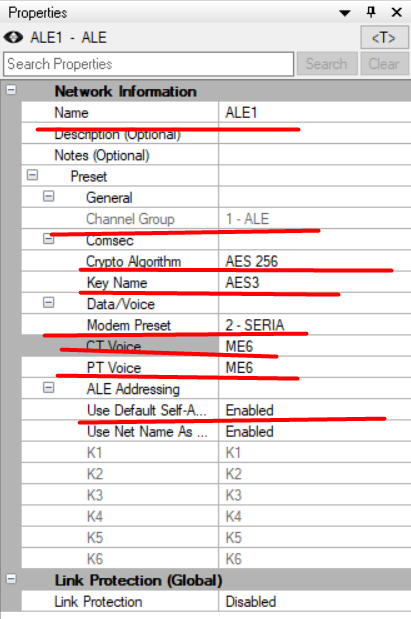
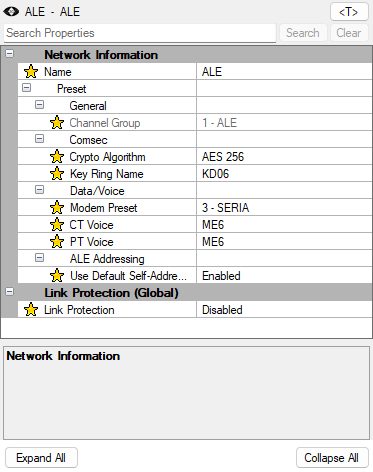
Оновити властивості мережі ALE

diff --git a/02-tehnika-bezpeky/quiz.html b/02-tehnika-bezpeky/quiz.html
@@ -1,8 +1,8 @@
 <!doctype html>
-  <script src="../asset-version.js?v=34ab94fab935"></script>
+  <script src="../asset-version.js?v=a3d1751b5d5b"></script>
 
 <script>location.replace("../quiz.html?topic=2");</script>
-<html lang="uk"><head><meta charset="utf-8"><meta name="viewport" content="width=device-width, initial-scale=1"><title>Вікторина</title><link rel="icon" href="data:,"><link rel="stylesheet" href="../style.css?v=34ab94fab935"><link rel="stylesheet" href="../quiz-common.css?v=34ab94fab935"></head>
+<html lang="uk"><head><meta charset="utf-8"><meta name="viewport" content="width=device-width, initial-scale=1"><title>Вікторина</title><link rel="icon" href="data:,"><link rel="stylesheet" href="../style.css?v=a3d1751b5d5b"><link rel="stylesheet" href="../quiz-common.css?v=a3d1751b5d5b"></head>
 <body><main class="page quiz-page">
   <div class="topbar"><a href="index.html">До конспекту</a><span>Тема 2 / Тренування</span></div>
   <header class="quiz-header"><div><p id="topicLabel" class="source"></p><h1 id="quizTitle">Екзаменаційна вікторина</h1></div><div class="scoreboard" aria-label="Стан вікторини"><div><span id="progressText">-</span><small>питання</small></div><div><span id="scoreText">0</span><small>правильно</small></div><div><span id="bestText">-</span><small>найкраще</small></div></div></header>
@@ -10,4 +10,4 @@
   <section id="resumePanel" class="resume-panel" hidden><p class="question-topic">Незавершена спроба</p><h2>Продовжити збережену вікторину?</h2><p id="resumeSummary"></p><div class="quiz-actions"><button id="resumeButton" class="primary-button" type="button">Продовжити</button><button id="newQuizButton" class="secondary-button" type="button">Почати нову</button></div></section>
   <section id="quizPanel" class="quiz-panel" hidden aria-live="polite"><p id="questionTopic" class="question-topic"></p><h2 id="questionText"></h2><div id="answers" class="answers" role="radiogroup"></div><div id="feedback" class="feedback" hidden><p id="feedbackTitle" class="feedback-title"></p><p id="feedbackText"></p><a id="referenceLink" class="reference-link" href="index.html" target="_blank" rel="noopener">Відкрити фрагмент конспекту</a></div><div class="quiz-actions"><button id="checkButton" class="primary-button" type="button" disabled>Перевірити</button><button id="nextButton" class="primary-button" type="button" hidden>Наступне питання</button></div></section>
   <section id="resultPanel" class="result-panel" hidden><p class="result-label">Результат</p><h2 id="resultTitle"></h2><p id="resultMessage"></p><div class="result-stats"><div><strong id="resultCorrectTotal">0/0</strong><span>правильно / усього</span></div><div><strong id="resultGrade">0/5</strong><span>оцінка</span></div><div><strong id="resultPercent">0%</strong><span>правильних</span></div><div><strong id="resultTime">0:00</strong><span>активний час</span></div></div><div id="mistakes" class="mistakes"></div><div class="result-actions"><button id="restartButton" class="primary-button" type="button">Пройти ще раз</button><a class="secondary-button" href="index.html">До конспекту</a></div></section>
-</main><script src="quiz-data.js?v=34ab94fab935"></script><script src="../quiz-engine.js?v=34ab94fab935"></script><script src="../site-ui.js?v=34ab94fab935"></script></body></html>
+</main><script src="quiz-data.js?v=a3d1751b5d5b"></script><script src="../quiz-engine.js?v=a3d1751b5d5b"></script><script src="../site-ui.js?v=a3d1751b5d5b"></script></body></html>

diff --git a/03-radiohvyli-radiozviazok-zavady/quiz.html b/03-radiohvyli-radiozviazok-zavady/quiz.html
@@ -1,8 +1,8 @@
 <!doctype html>
-  <script src="../asset-version.js?v=34ab94fab935"></script>
+  <script src="../asset-version.js?v=a3d1751b5d5b"></script>
 
 <script>location.replace("../quiz.html?topic=3");</script>
-<html lang="uk"><head><meta charset="utf-8"><meta name="viewport" content="width=device-width, initial-scale=1"><title>Вікторина</title><link rel="icon" href="data:,"><link rel="stylesheet" href="../style.css?v=34ab94fab935"><link rel="stylesheet" href="../quiz-common.css?v=34ab94fab935"></head>
+<html lang="uk"><head><meta charset="utf-8"><meta name="viewport" content="width=device-width, initial-scale=1"><title>Вікторина</title><link rel="icon" href="data:,"><link rel="stylesheet" href="../style.css?v=a3d1751b5d5b"><link rel="stylesheet" href="../quiz-common.css?v=a3d1751b5d5b"></head>
 <body><main class="page quiz-page">
   <div class="topbar"><a href="index.html">До конспекту</a><span>Тема 3 / Тренування</span></div>
   <header class="quiz-header"><div><p id="topicLabel" class="source"></p><h1 id="quizTitle">Екзаменаційна вікторина</h1></div><div class="scoreboard" aria-label="Стан вікторини"><div><span id="progressText">-</span><small>питання</small></div><div><span id="scoreText">0</span><small>правильно</small></div><div><span id="bestText">-</span><small>найкраще</small></div></div></header>
@@ -10,4 +10,4 @@
   <section id="resumePanel" class="resume-panel" hidden><p class="question-topic">Незавершена спроба</p><h2>Продовжити збережену вікторину?</h2><p id="resumeSummary"></p><div class="quiz-actions"><button id="resumeButton" class="primary-button" type="button">Продовжити</button><button id="newQuizButton" class="secondary-button" type="button">Почати нову</button></div></section>
   <section id="quizPanel" class="quiz-panel" hidden aria-live="polite"><p id="questionTopic" class="question-topic"></p><h2 id="questionText"></h2><div id="answers" class="answers" role="radiogroup"></div><div id="feedback" class="feedback" hidden><p id="feedbackTitle" class="feedback-title"></p><p id="feedbackText"></p><a id="referenceLink" class="reference-link" href="index.html" target="_blank" rel="noopener">Відкрити фрагмент конспекту</a></div><div class="quiz-actions"><button id="checkButton" class="primary-button" type="button" disabled>Перевірити</button><button id="nextButton" class="primary-button" type="button" hidden>Наступне питання</button></div></section>
   <section id="resultPanel" class="result-panel" hidden><p class="result-label">Результат</p><h2 id="resultTitle"></h2><p id="resultMessage"></p><div class="result-stats"><div><strong id="resultCorrectTotal">0/0</strong><span>правильно / усього</span></div><div><strong id="resultGrade">0/5</strong><span>оцінка</span></div><div><strong id="resultPercent">0%</strong><span>правильних</span></div><div><strong id="resultTime">0:00</strong><span>активний час</span></div></div><div id="mistakes" class="mistakes"></div><div class="result-actions"><button id="restartButton" class="primary-button" type="button">Пройти ще раз</button><a class="secondary-button" href="index.html">До конспекту</a></div></section>
-</main><script src="quiz-data.js?v=34ab94fab935"></script><script src="../quiz-engine.js?v=34ab94fab935"></script><script src="../site-ui.js?v=34ab94fab935"></script></body></html>
+</main><script src="quiz-data.js?v=a3d1751b5d5b"></script><script src="../quiz-engine.js?v=a3d1751b5d5b"></script><script src="../site-ui.js?v=a3d1751b5d5b"></script></body></html>

diff --git a/04-pobudova-radiostantsii-antenny/quiz.html b/04-pobudova-radiostantsii-antenny/quiz.html
@@ -1,8 +1,8 @@
 <!doctype html>
-  <script src="../asset-version.js?v=34ab94fab935"></script>
+  <script src="../asset-version.js?v=a3d1751b5d5b"></script>
 
 <script>location.replace("../quiz.html?topic=4");</script>
-<html lang="uk"><head><meta charset="utf-8"><meta name="viewport" content="width=device-width, initial-scale=1"><title>Вікторина</title><link rel="icon" href="data:,"><link rel="stylesheet" href="../style.css?v=34ab94fab935"><link rel="stylesheet" href="../quiz-common.css?v=34ab94fab935"></head>
+<html lang="uk"><head><meta charset="utf-8"><meta name="viewport" content="width=device-width, initial-scale=1"><title>Вікторина</title><link rel="icon" href="data:,"><link rel="stylesheet" href="../style.css?v=a3d1751b5d5b"><link rel="stylesheet" href="../quiz-common.css?v=a3d1751b5d5b"></head>
 <body><main class="page quiz-page">
   <div class="topbar"><a href="index.html">До конспекту</a><span>Тема 4 / Тренування</span></div>
   <header class="quiz-header"><div><p id="topicLabel" class="source"></p><h1 id="quizTitle">Екзаменаційна вікторина</h1></div><div class="scoreboard" aria-label="Стан вікторини"><div><span id="progressText">-</span><small>питання</small></div><div><span id="scoreText">0</span><small>правильно</small></div><div><span id="bestText">-</span><small>найкраще</small></div></div></header>
@@ -10,4 +10,4 @@
   <section id="resumePanel" class="resume-panel" hidden><p class="question-topic">Незавершена спроба</p><h2>Продовжити збережену вікторину?</h2><p id="resumeSummary"></p><div class="quiz-actions"><button id="resumeButton" class="primary-button" type="button">Продовжити</button><button id="newQuizButton" class="secondary-button" type="button">Почати нову</button></div></section>
   <section id="quizPanel" class="quiz-panel" hidden aria-live="polite"><p id="questionTopic" class="question-topic"></p><h2 id="questionText"></h2><div id="answers" class="answers" role="radiogroup"></div><div id="feedback" class="feedback" hidden><p id="feedbackTitle" class="feedback-title"></p><p id="feedbackText"></p><a id="referenceLink" class="reference-link" href="index.html" target="_blank" rel="noopener">Відкрити фрагмент конспекту</a></div><div class="quiz-actions"><button id="checkButton" class="primary-button" type="button" disabled>Перевірити</button><button id="nextButton" class="primary-button" type="button" hidden>Наступне питання</button></div></section>
   <section id="resultPanel" class="result-panel" hidden><p class="result-label">Результат</p><h2 id="resultTitle"></h2><p id="resultMessage"></p><div class="result-stats"><div><strong id="resultCorrectTotal">0/0</strong><span>правильно / усього</span></div><div><strong id="resultGrade">0/5</strong><span>оцінка</span></div><div><strong id="resultPercent">0%</strong><span>правильних</span></div><div><strong id="resultTime">0:00</strong><span>активний час</span></div></div><div id="mistakes" class="mistakes"></div><div class="result-actions"><button id="restartButton" class="primary-button" type="button">Пройти ще раз</button><a class="secondary-button" href="index.html">До конспекту</a></div></section>
-</main><script src="quiz-data.js?v=34ab94fab935"></script><script src="../quiz-engine.js?v=34ab94fab935"></script><script src="../site-ui.js?v=34ab94fab935"></script></body></html>
+</main><script src="quiz-data.js?v=a3d1751b5d5b"></script><script src="../quiz-engine.js?v=a3d1751b5d5b"></script><script src="../site-ui.js?v=a3d1751b5d5b"></script></body></html>

diff --git a/05-harris-ukh/quiz.html b/05-harris-ukh/quiz.html
@@ -1,8 +1,8 @@
 <!doctype html>
-  <script src="../asset-version.js?v=34ab94fab935"></script>
+  <script src="../asset-version.js?v=a3d1751b5d5b"></script>
 
 <script>location.replace("../quiz.html?topic=5");</script>
-<html lang="uk"><head><meta charset="utf-8"><meta name="viewport" content="width=device-width, initial-scale=1"><title>Вікторина</title><link rel="icon" href="data:,"><link rel="stylesheet" href="../style.css?v=34ab94fab935"><link rel="stylesheet" href="../quiz-common.css?v=34ab94fab935"></head>
+<html lang="uk"><head><meta charset="utf-8"><meta name="viewport" content="width=device-width, initial-scale=1"><title>Вікторина</title><link rel="icon" href="data:,"><link rel="stylesheet" href="../style.css?v=a3d1751b5d5b"><link rel="stylesheet" href="../quiz-common.css?v=a3d1751b5d5b"></head>
 <body><main class="page quiz-page">
   <div class="topbar"><a href="index.html">До конспекту</a><span>Тема 5 / Тренування</span></div>
   <header class="quiz-header"><div><p id="topicLabel" class="source"></p><h1 id="quizTitle">Екзаменаційна вікторина</h1></div><div class="scoreboard" aria-label="Стан вікторини"><div><span id="progressText">-</span><small>питання</small></div><div><span id="scoreText">0</span><small>правильно</small></div><div><span id="bestText">-</span><small>найкраще</small></div></div></header>
@@ -10,4 +10,4 @@
   <section id="resumePanel" class="resume-panel" hidden><p class="question-topic">Незавершена спроба</p><h2>Продовжити збережену вікторину?</h2><p id="resumeSummary"></p><div class="quiz-actions"><button id="resumeButton" class="primary-button" type="button">Продовжити</button><button id="newQuizButton" class="secondary-button" type="button">Почати нову</button></div></section>
   <section id="quizPanel" class="quiz-panel" hidden aria-live="polite"><p id="questionTopic" class="question-topic"></p><h2 id="questionText"></h2><div id="answers" class="answers" role="radiogroup"></div><div id="feedback" class="feedback" hidden><p id="feedbackTitle" class="feedback-title"></p><p id="feedbackText"></p><a id="referenceLink" class="reference-link" href="index.html" target="_blank" rel="noopener">Відкрити фрагмент конспекту</a></div><div class="quiz-actions"><button id="checkButton" class="primary-button" type="button" disabled>Перевірити</button><button id="nextButton" class="primary-button" type="button" hidden>Наступне питання</button></div></section>
   <section id="resultPanel" class="result-panel" hidden><p class="result-label">Результат</p><h2 id="resultTitle"></h2><p id="resultMessage"></p><div class="result-stats"><div><strong id="resultCorrectTotal">0/0</strong><span>правильно / усього</span></div><div><strong id="resultGrade">0/5</strong><span>оцінка</span></div><div><strong id="resultPercent">0%</strong><span>правильних</span></div><div><strong id="resultTime">0:00</strong><span>активний час</span></div></div><div id="mistakes" class="mistakes"></div><div class="result-actions"><button id="restartButton" class="primary-button" type="button">Пройти ще раз</button><a class="secondary-button" href="index.html">До конспекту</a></div></section>
-</main><script src="quiz-data.js?v=34ab94fab935"></script><script src="../quiz-engine.js?v=34ab94fab935"></script><script src="../site-ui.js?v=34ab94fab935"></script></body></html>
+</main><script src="quiz-data.js?v=a3d1751b5d5b"></script><script src="../quiz-engine.js?v=a3d1751b5d5b"></script><script src="../site-ui.js?v=a3d1751b5d5b"></script></body></html>

diff --git a/08-harris-kh-programuvannia/index.html b/08-harris-kh-programuvannia/index.html
@@ -5,7 +5,7 @@
   <meta name="viewport" content="width=device-width, initial-scale=1">
   <title>8. Програмування HARRIS КХ RF-7800H-MP</title>
   <link rel="icon" href="data:,">
-  <link rel="stylesheet" href="../style.css?v=34ab94fab935">
+  <link rel="stylesheet" href="../style.css?v=a3d1751b5d5b">
 </head>
 <body>
   <main class="page">
@@ -250,14 +250,15 @@
       <ul>
         <li><code>Name</code> — назва мережі;</li>
         <li><code>Channel Group</code> — канальна група ALE;</li>
-        <li><code>Crypto Algorithm</code> і <code>Key Name</code> — алгоритм та ключ шифрування;</li>
+        <li><code>Crypto Algorithm</code> і <code>Key Ring Name</code> — алгоритм та кільце ключів шифрування;</li>
         <li><code>Modem Preset</code> — профіль модема;</li>
         <li><code>CT Voice</code> і <code>PT Voice</code> — потрібні вокодери;</li>
-        <li><code>Use Default self-address</code> — <code>Enabled</code>.</li>
+        <li><code>Use Default Self-Address</code> — <code>Enabled</code>;</li>
+        <li><code>Link Protection</code> — <code>Disabled</code>.</li>
       </ul>
-      <figure class="procedure-shot">
+      <figure class="procedure-shot procedure-shot-narrow">
         <button class="procedure-shot-button" type="button" aria-label="Збільшити властивості ALE"><img src="ale-network-properties.png" alt="Основні властивості мережі ALE" loading="lazy"></button>
-        <figcaption>Канальна група, шифрування, модем, вокодери й адресація ALE.</figcaption>
+        <figcaption>Канальна група, шифрування, модем, вокодери, адресація ALE та захист каналу.</figcaption>
       </figure>
     </section>
 
@@ -352,12 +353,12 @@
       <p><a href="../07-harris-kh-ekspluatatsiia/index.html#ip-adresa">Перегляд налаштування DIRECT USB та IP-адреси радіостанції</a></p>
     </section>
   </main>
-  <script src="../asset-version.js?v=34ab94fab935"></script>
-  <script src="../search-index.js?v=34ab94fab935"></script>
-  <script src="../topic-search.js?v=34ab94fab935"></script>
+  <script src="../asset-version.js?v=a3d1751b5d5b"></script>
+  <script src="../search-index.js?v=a3d1751b5d5b"></script>
+  <script src="../topic-search.js?v=a3d1751b5d5b"></script>
   <script>window.GLOSSARY_ROOT = "../";</script>
-  <script src="../glossary-data.js?v=34ab94fab935"></script>
-  <script src="../glossary-terms.js?v=34ab94fab935"></script>
-  <script src="../site-ui.js?v=34ab94fab935"></script>
+  <script src="../glossary-data.js?v=a3d1751b5d5b"></script>
+  <script src="../glossary-terms.js?v=a3d1751b5d5b"></script>
+  <script src="../site-ui.js?v=a3d1751b5d5b"></script>
 </body>
 </html>

diff --git a/search-index.js b/search-index.js
@@ -427,7 +427,7 @@ window.SEARCH_INDEX = {
       "topic": "8. Програмування HARRIS КХ RF-7800H-MP",
       "section": "Мережа ALE",
       "url": "08-harris-kh-programuvannia/index.html#ale",
-      "text": "Мережа ALE Create Create Network ALE Додай створені станції через Existing , зніми виділення та натисни Expand All . У властивостях мережі заповни: Name — назва мережі; Channel Group — канальна група ALE; Crypto Algorithm і Key Name — алгоритм та ключ шифрування; Modem Preset — профіль модема; CT Voice і PT Voice — потрібні вокодери; Use Default self-address — Enabled . Канальна група, шифрування, модем, вокодери й адресація ALE."
+      "text": "Мережа ALE Create Create Network ALE Додай створені станції через Existing , зніми виділення та натисни Expand All . У властивостях мережі заповни: Name — назва мережі; Channel Group — канальна група ALE; Crypto Algorithm і Key Ring Name — алгоритм та кільце ключів шифрування; Modem Preset — профіль модема; CT Voice і PT Voice — потрібні вокодери; Use Default Self-Address — Enabled ; Link Protection — Disabled . Канальна група, шифрування, модем, вокодери, адресація ALE та захист каналу."
     },
     {
       "topic": "8. Програмування HARRIS КХ RF-7800H-MP",

diff --git a/02-tehnika-bezpeky/index.html b/02-tehnika-bezpeky/index.html
@@ -4,7 +4,7 @@
   <meta charset="utf-8">
   <meta name="viewport" content="width=device-width, initial-scale=1">
   <title>2. Техніка безпеки при експлуатації та обслуговуванні засобів радіозв'язку</title>
-  <link rel="stylesheet" href="../style.css?v=34ab94fab935">
+  <link rel="stylesheet" href="../style.css?v=a3d1751b5d5b">
 </head>
 <body>
   <main class="page">
@@ -166,13 +166,13 @@
     <div class="topic-quiz-cta"><div><strong>Перевір себе</strong><span>Перевір знання за матеріалами цієї теми.</span></div><a class="topic-quiz-button" href="../quiz.html?topic=2">Почати вікторину <span aria-hidden="true">→</span></a></div>
 
   </main>
-  <script src="../asset-version.js?v=34ab94fab935"></script>
+  <script src="../asset-version.js?v=a3d1751b5d5b"></script>
 
-  <script src="../search-index.js?v=34ab94fab935"></script>
-  <script src="../topic-search.js?v=34ab94fab935"></script>
+  <script src="../search-index.js?v=a3d1751b5d5b"></script>
+  <script src="../topic-search.js?v=a3d1751b5d5b"></script>
   <script>window.GLOSSARY_ROOT = "../";</script>
-  <script src="../glossary-data.js?v=34ab94fab935"></script>
-  <script src="../glossary-terms.js?v=34ab94fab935"></script>
-  <script src="../site-ui.js?v=34ab94fab935"></script>
+  <script src="../glossary-data.js?v=a3d1751b5d5b"></script>
+  <script src="../glossary-terms.js?v=a3d1751b5d5b"></script>
+  <script src="../site-ui.js?v=a3d1751b5d5b"></script>
 </body>
 </html>

diff --git a/01-osnovy-radiozviazku/index.html b/01-osnovy-radiozviazku/index.html
@@ -4,7 +4,7 @@
   <meta charset="utf-8">
   <meta name="viewport" content="width=device-width, initial-scale=1">
   <title>1. Основи радіозв'язку: організація, режими, радіообмін</title>
-  <link rel="stylesheet" href="../style.css?v=34ab94fab935">
+  <link rel="stylesheet" href="../style.css?v=a3d1751b5d5b">
 </head>
 <body>
   <main class="page">
@@ -205,13 +205,13 @@
 
     <div class="topic-quiz-cta"><div><strong>Перевір себе</strong><span>Перевір знання за матеріалами цієї теми.</span></div><a class="topic-quiz-button" href="../quiz.html?topic=1">Почати вікторину <span aria-hidden="true">→</span></a></div>
   </main>
-  <script src="../asset-version.js?v=34ab94fab935"></script>
+  <script src="../asset-version.js?v=a3d1751b5d5b"></script>
 
-  <script src="../search-index.js?v=34ab94fab935"></script>
-  <script src="../topic-search.js?v=34ab94fab935"></script>
+  <script src="../search-index.js?v=a3d1751b5d5b"></script>
+  <script src="../topic-search.js?v=a3d1751b5d5b"></script>
   <script>window.GLOSSARY_ROOT = "../";</script>
-  <script src="../glossary-data.js?v=34ab94fab935"></script>
-  <script src="../glossary-terms.js?v=34ab94fab935"></script>
-  <script src="../site-ui.js?v=34ab94fab935"></script>
+  <script src="../glossary-data.js?v=a3d1751b5d5b"></script>
+  <script src="../glossary-terms.js?v=a3d1751b5d5b"></script>
+  <script src="../site-ui.js?v=a3d1751b5d5b"></script>
 </body>
 </html>

diff --git a/04-pobudova-radiostantsii-antenny/index.html b/04-pobudova-radiostantsii-antenny/index.html
@@ -4,7 +4,7 @@
   <meta charset="utf-8">
   <meta name="viewport" content="width=device-width, initial-scale=1">
   <title>4. Побудова сучасних радіостанцій та антени</title>
-  <link rel="stylesheet" href="../style.css?v=34ab94fab935">
+  <link rel="stylesheet" href="../style.css?v=a3d1751b5d5b">
 </head>
 <body>
   <main class="page">
@@ -208,13 +208,13 @@
     <div class="topic-quiz-cta"><div><strong>Перевір себе</strong><span>Перевір знання за матеріалами цієї теми.</span></div><a class="topic-quiz-button" href="../quiz.html?topic=4">Почати вікторину <span aria-hidden="true">→</span></a></div>
 
   </main>
-  <script src="../asset-version.js?v=34ab94fab935"></script>
+  <script src="../asset-version.js?v=a3d1751b5d5b"></script>
 
-  <script src="../search-index.js?v=34ab94fab935"></script>
-  <script src="../topic-search.js?v=34ab94fab935"></script>
+  <script src="../search-index.js?v=a3d1751b5d5b"></script>
+  <script src="../topic-search.js?v=a3d1751b5d5b"></script>
   <script>window.GLOSSARY_ROOT = "../";</script>
-  <script src="../glossary-data.js?v=34ab94fab935"></script>
-  <script src="../glossary-terms.js?v=34ab94fab935"></script>
-  <script src="../site-ui.js?v=34ab94fab935"></script>
+  <script src="../glossary-data.js?v=a3d1751b5d5b"></script>
+  <script src="../glossary-terms.js?v=a3d1751b5d5b"></script>
+  <script src="../site-ui.js?v=a3d1751b5d5b"></script>
 </body>
 </html>

diff --git a/03-radiohvyli-radiozviazok-zavady/index.html b/03-radiohvyli-radiozviazok-zavady/index.html
@@ -4,7 +4,7 @@
   <meta charset="utf-8">
   <meta name="viewport" content="width=device-width, initial-scale=1">
   <title>3. Радіохвилі, радіозв'язок і радіозавади</title>
-  <link rel="stylesheet" href="../style.css?v=34ab94fab935">
+  <link rel="stylesheet" href="../style.css?v=a3d1751b5d5b">
 </head>
 <body>
   <main class="page">
@@ -171,13 +171,13 @@
     <div class="topic-quiz-cta"><div><strong>Перевір себе</strong><span>Перевір знання за матеріалами цієї теми.</span></div><a class="topic-quiz-button" href="../quiz.html?topic=3">Почати вікторину <span aria-hidden="true">→</span></a></div>
 
   </main>
-  <script src="../asset-version.js?v=34ab94fab935"></script>
+  <script src="../asset-version.js?v=a3d1751b5d5b"></script>
 
-  <script src="../search-index.js?v=34ab94fab935"></script>
-  <script src="../topic-search.js?v=34ab94fab935"></script>
+  <script src="../search-index.js?v=a3d1751b5d5b"></script>
+  <script src="../topic-search.js?v=a3d1751b5d5b"></script>
   <script>window.GLOSSARY_ROOT = "../";</script>
-  <script src="../glossary-data.js?v=34ab94fab935"></script>
-  <script src="../glossary-terms.js?v=34ab94fab935"></script>
-  <script src="../site-ui.js?v=34ab94fab935"></script>
+  <script src="../glossary-data.js?v=a3d1751b5d5b"></script>
+  <script src="../glossary-terms.js?v=a3d1751b5d5b"></script>
+  <script src="../site-ui.js?v=a3d1751b5d5b"></script>
 </body>
 </html>

diff --git a/07-harris-kh-ekspluatatsiia/index.html b/07-harris-kh-ekspluatatsiia/index.html
@@ -5,7 +5,7 @@
   <meta name="viewport" content="width=device-width, initial-scale=1">
   <title>7. Експлуатація HARRIS КХ RF-7800H-MP / MPR-9600-MP</title>
   <link rel="icon" href="data:,">
-  <link rel="stylesheet" href="../style.css?v=34ab94fab935">
+  <link rel="stylesheet" href="../style.css?v=a3d1751b5d5b">
 </head>
 <body>
   <main class="page">
@@ -216,13 +216,13 @@
 
     <div class="topic-quiz-cta"><div><strong>Перевір себе</strong><span>Перевір знання за матеріалами цієї теми.</span></div><a class="topic-quiz-button" href="../quiz.html?topic=7">Почати вікторину <span aria-hidden="true">→</span></a></div>
   </main>
-  <script src="../asset-version.js?v=34ab94fab935"></script>
+  <script src="../asset-version.js?v=a3d1751b5d5b"></script>
 
-  <script src="../search-index.js?v=34ab94fab935"></script>
-  <script src="../topic-search.js?v=34ab94fab935"></script>
+  <script src="../search-index.js?v=a3d1751b5d5b"></script>
+  <script src="../topic-search.js?v=a3d1751b5d5b"></script>
   <script>window.GLOSSARY_ROOT = "../";</script>
-  <script src="../glossary-data.js?v=34ab94fab935"></script>
-  <script src="../glossary-terms.js?v=34ab94fab935"></script>
-  <script src="../site-ui.js?v=34ab94fab935"></script>
+  <script src="../glossary-data.js?v=a3d1751b5d5b"></script>
+  <script src="../glossary-terms.js?v=a3d1751b5d5b"></script>
+  <script src="../site-ui.js?v=a3d1751b5d5b"></script>
 </body>
 </html>

diff --git a/05-harris-ukh/index.html b/05-harris-ukh/index.html
@@ -5,7 +5,7 @@
   <meta name="viewport" content="width=device-width, initial-scale=1">
   <title>5. ТТХ HARRIS УКХ RF-7850M-HH / RF-7800V-HH</title>
   <link rel="icon" href="data:,">
-  <link rel="stylesheet" href="../style.css?v=34ab94fab935">
+  <link rel="stylesheet" href="../style.css?v=a3d1751b5d5b">
 </head>
 <body>
   <main class="page">
@@ -498,13 +498,13 @@
     <div class="topic-quiz-cta"><div><strong>Перевір себе</strong><span>Перевір знання за матеріалами цієї теми.</span></div><a class="topic-quiz-button" href="../quiz.html?topic=5">Почати вікторину <span aria-hidden="true">→</span></a></div>
 
   </main>
-  <script src="../asset-version.js?v=34ab94fab935"></script>
+  <script src="../asset-version.js?v=a3d1751b5d5b"></script>
 
-  <script src="../search-index.js?v=34ab94fab935"></script>
-  <script src="../topic-search.js?v=34ab94fab935"></script>
+  <script src="../search-index.js?v=a3d1751b5d5b"></script>
+  <script src="../topic-search.js?v=a3d1751b5d5b"></script>
   <script>window.GLOSSARY_ROOT = "../";</script>
-  <script src="../glossary-data.js?v=34ab94fab935"></script>
-  <script src="../glossary-terms.js?v=34ab94fab935"></script>
-  <script src="../site-ui.js?v=34ab94fab935"></script>
+  <script src="../glossary-data.js?v=a3d1751b5d5b"></script>
+  <script src="../glossary-terms.js?v=a3d1751b5d5b"></script>
+  <script src="../site-ui.js?v=a3d1751b5d5b"></script>
 </body>
 </html>
